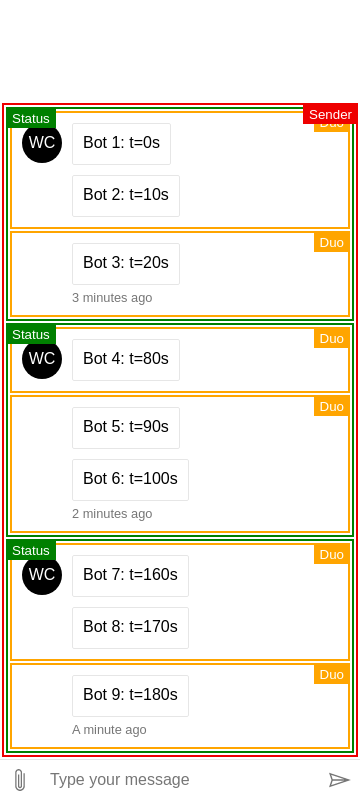
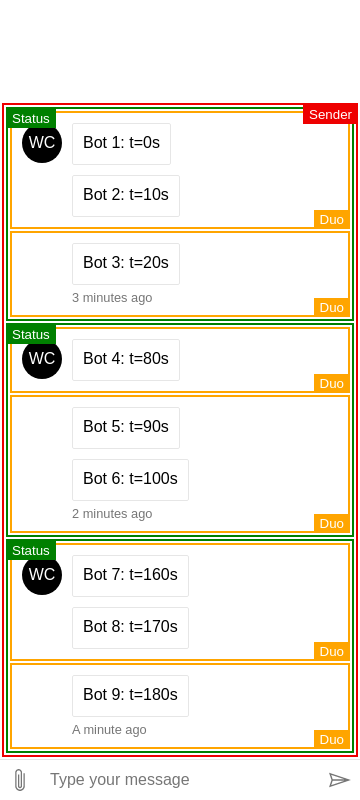
Update label position

diff --git a/__tests__/html2/grouping/customGrouping.html b/__tests__/html2/grouping/customGrouping.html
@@ -15,9 +15,11 @@
 
       .grouping--duo::after {
         background-color: orange;
+        bottom: -2px;
         color: white;
         content: 'Duo';
         right: -2px;
+        top: unset;
       }
     </style>
   </head>

diff --git a/__tests__/html2/grouping/noSuchGroup.html b/__tests__/html2/grouping/noSuchGroup.html
@@ -15,9 +15,11 @@
 
       .grouping--duo::after {
         background-color: orange;
+        bottom: -2px;
         color: white;
         content: 'Duo';
         right: -2px;
+        top: unset;
       }
     </style>
   </head>
